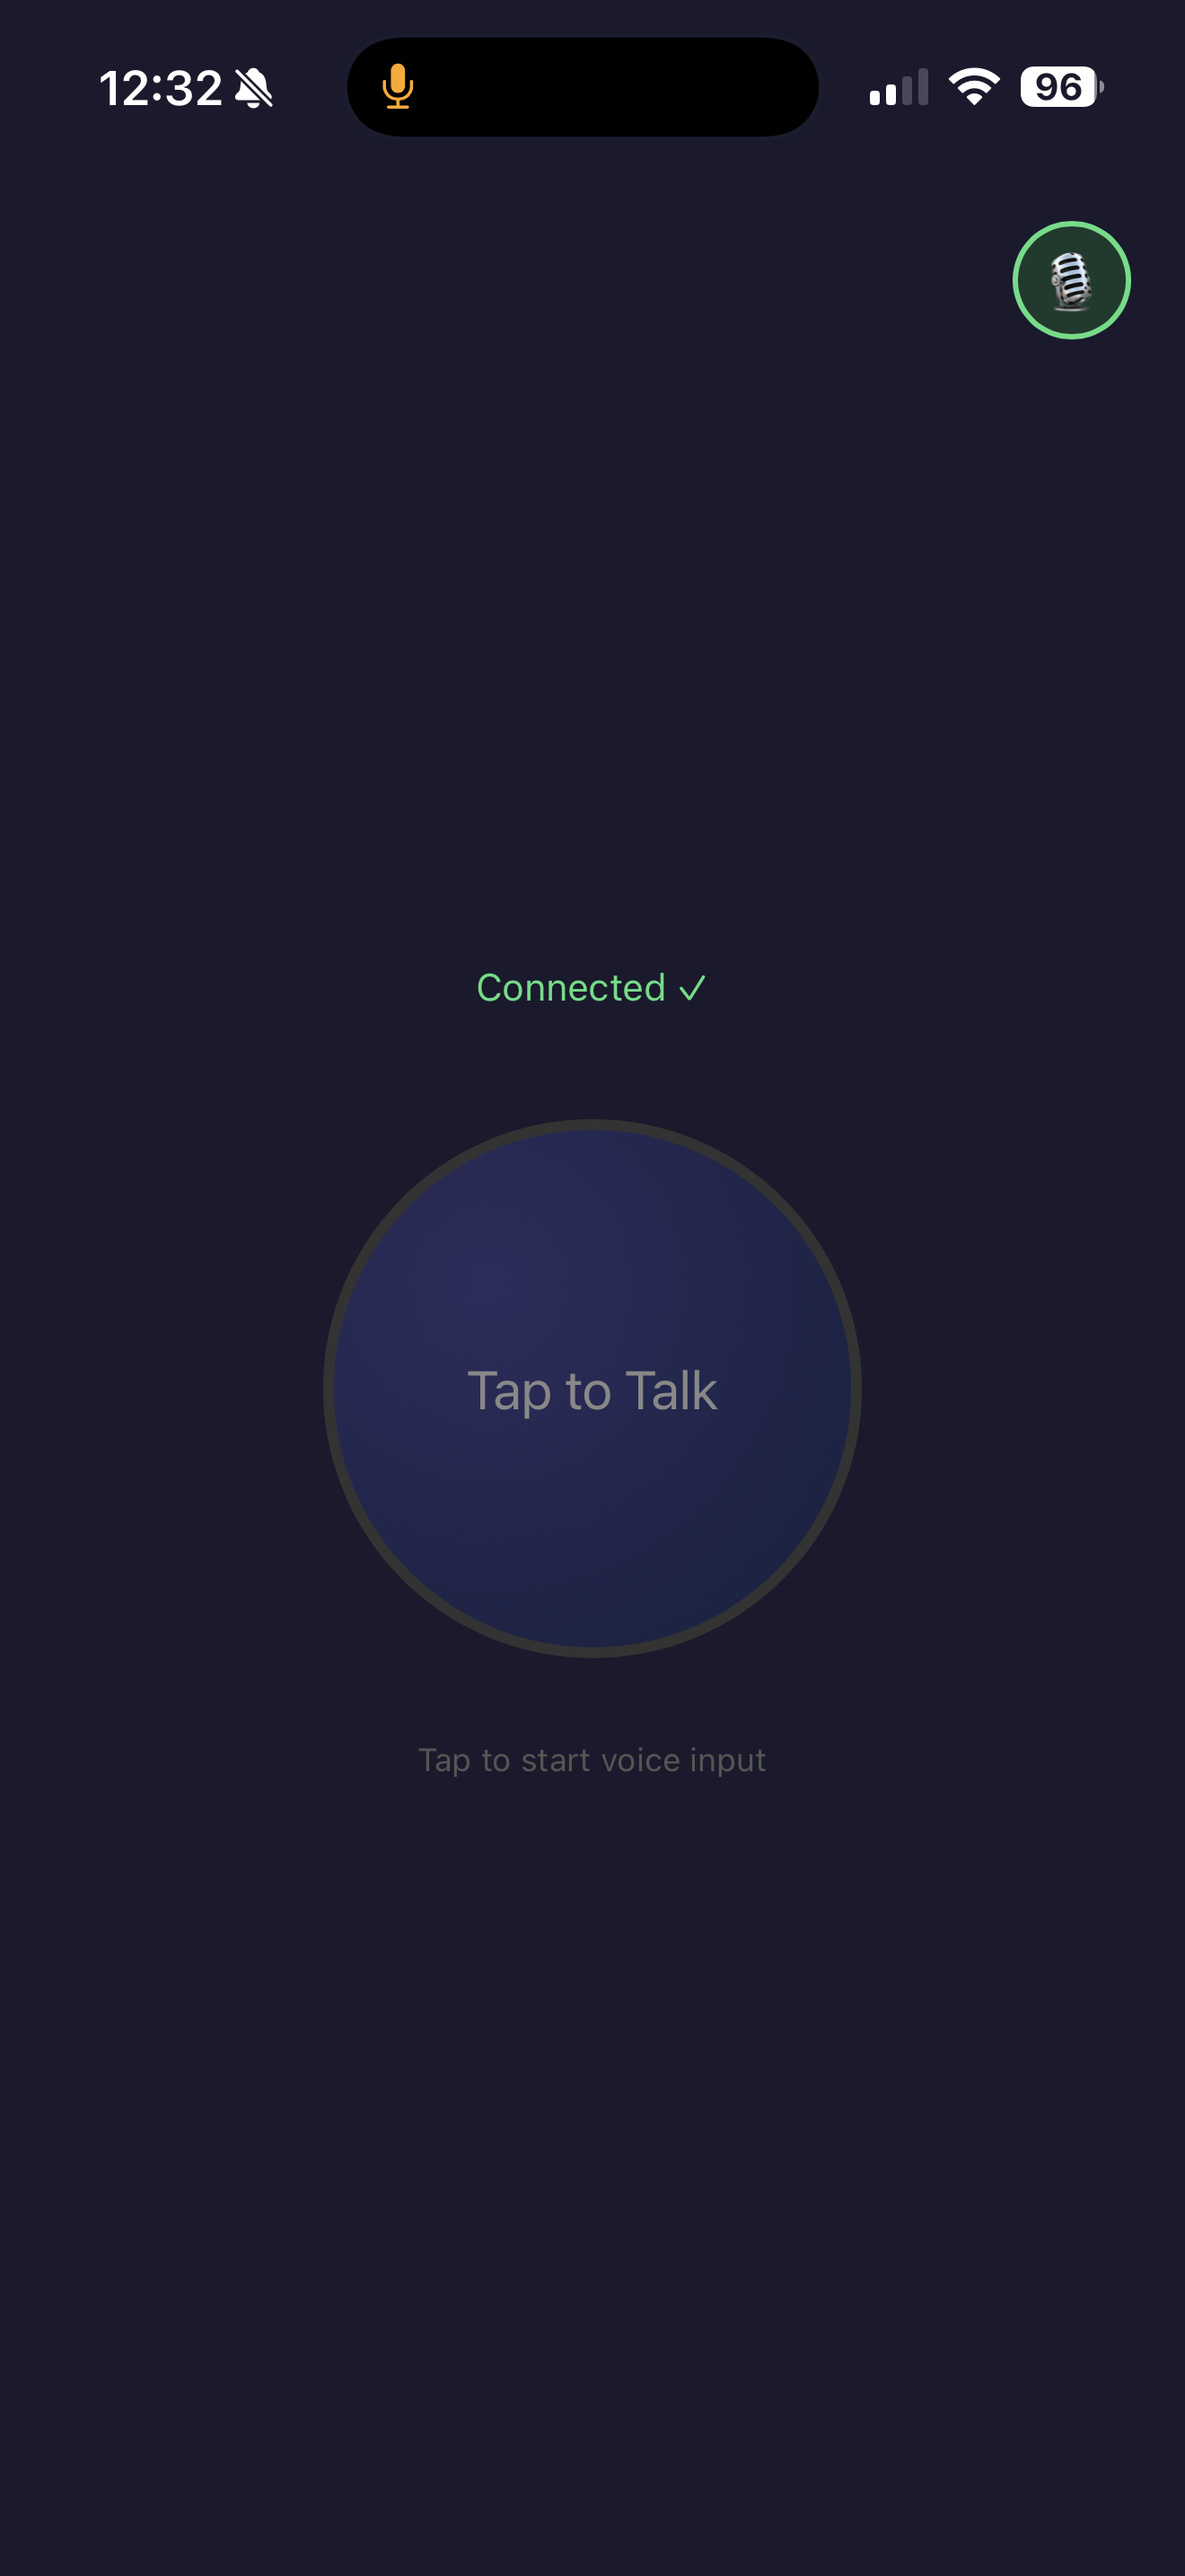
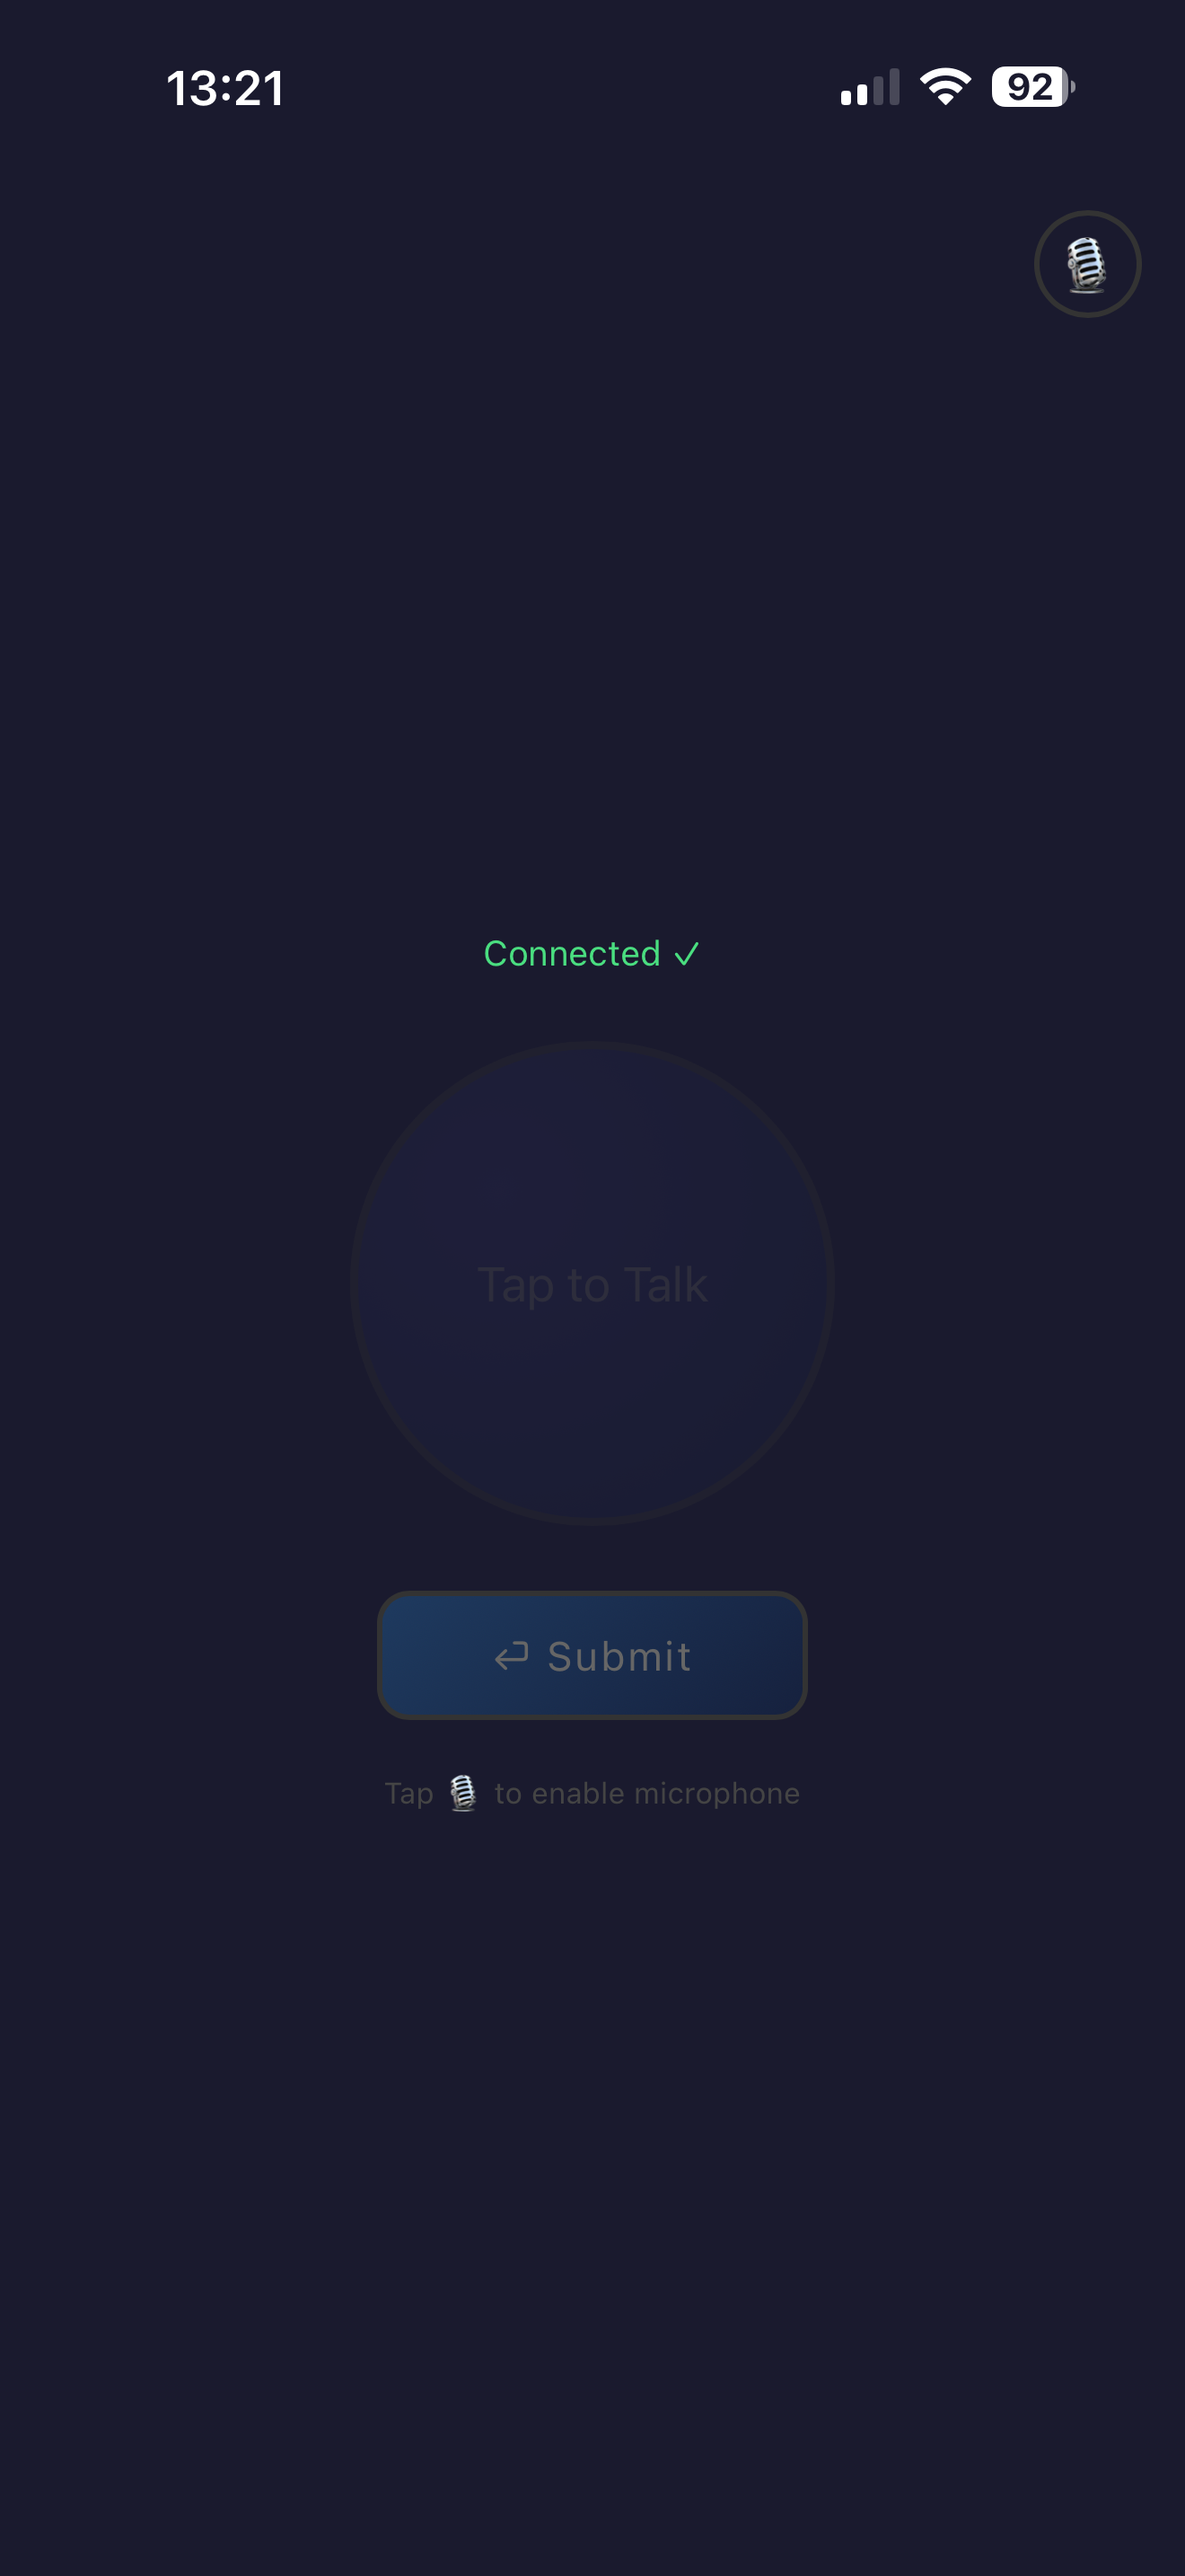
Add Submit (Enter) button, update screenshots, add hardware wiring diagram

diff --git a/public/index.html b/public/index.html
@@ -3,6 +3,8 @@
 <head>
 <meta charset="UTF-8">
 <meta name="viewport" content="width=device-width, initial-scale=1.0, user-scalable=no">
+<meta name="apple-mobile-web-app-capable" content="yes">
+<meta name="apple-mobile-web-app-status-bar-style" content="black-translucent">
 <title>Vibe Coding Magic Button</title>
 <style>
   * { margin:0; padding:0; box-sizing:border-box; }
@@ -11,32 +13,56 @@
     background: #1a1a2e; color: #eee;
     display: flex; flex-direction: column;
     align-items: center; justify-content: center;
-    height: 100vh; -webkit-user-select: none;
+    height: 100vh; overflow: hidden;
+    -webkit-user-select: none; user-select: none;
   }
-  #status { font-size:14px; color:#888; margin-bottom:40px; }
-  #status.ok { color:#4ade80; }
-  #status.err { color:#f87171; }
-  #btn {
-    width:200px; height:200px; border-radius:50%;
-    border:4px solid #333;
+  #status { font-size: 13px; color: #666; margin-bottom: 24px; }
+  #status.ok { color: #4ade80; }
+  #status.err { color: #f87171; }
+
+  .buttons { display: flex; flex-direction: column; align-items: center; gap: 24px; }
+
+  #talk-btn {
+    width: 180px; height: 180px; border-radius: 50%;
+    border: 3px solid #333;
     background: radial-gradient(circle at 30% 30%, #2d2d5e, #16213e);
-    display:flex; align-items:center; justify-content:center;
-    font-size:20px; color:#888; cursor:pointer;
-    transition: all 0.15s; touch-action:manipulation;
-  }
-  #btn.active {
-    background: radial-gradient(circle at 30% 30%, #dc2626, #991b1b);
-    border-color:#ef4444; color:#fff; transform:scale(0.95);
-    box-shadow: 0 0 40px rgba(239,68,68,0.4);
-  }
-  #btn.off { opacity:0.3; pointer-events:none; }
-  #hint { margin-top:30px; font-size:12px; color:#555; }
-  #mic-toggle {
-    position: fixed; top: 20px; right: 20px;
-    width: 44px; height: 44px; border-radius: 50%;
-    border: 2px solid #444; background: #222;
     display: flex; align-items: center; justify-content: center;
-    font-size: 20px; cursor: pointer;
+    font-size: 18px; color: #666; cursor: pointer;
+    transition: all 0.15s; touch-action: manipulation;
+  }
+  #talk-btn.active {
+    background: radial-gradient(circle at 30% 30%, #dc2626, #991b1b);
+    border-color: #ef4444; color: #fff;
+    transform: scale(0.96);
+    box-shadow: 0 0 30px rgba(239,68,68,0.35);
+  }
+  #talk-btn.off { opacity: 0.25; pointer-events: none; }
+
+  #enter-btn {
+    width: 160px; height: 48px; border-radius: 12px;
+    border: 2px solid #333;
+    background: linear-gradient(135deg, #1e3a5f, #16213e);
+    display: flex; align-items: center; justify-content: center;
+    font-size: 15px; color: #666; cursor: pointer;
+    transition: all 0.12s; touch-action: manipulation;
+    letter-spacing: 1px;
+  }
+  #enter-btn:active {
+    background: linear-gradient(135deg, #2563eb, #1d4ed8);
+    border-color: #3b82f6; color: #fff;
+    transform: scale(0.95);
+    box-shadow: 0 0 20px rgba(59,130,246,0.3);
+  }
+  #enter-btn.off { opacity: 0.25; pointer-events: none; }
+
+  #hint { margin-top: 20px; font-size: 11px; color: #444; text-align: center; }
+
+  #mic-toggle {
+    position: fixed; top: 16px; right: 16px;
+    width: 40px; height: 40px; border-radius: 50%;
+    border: 2px solid #333; background: #1a1a2e;
+    display: flex; align-items: center; justify-content: center;
+    font-size: 18px; cursor: pointer;
     transition: all 0.2s;
   }
   #mic-toggle.on { border-color: #4ade80; background: #1a3a2e; }
@@ -45,7 +71,10 @@
 <body>
 <div id="mic-toggle">🎙</div>
 <div id="status">Loading...</div>
-<div id="btn" class="off">Tap to Talk</div>
+<div class="buttons">
+  <div id="talk-btn" class="off">Tap to Talk</div>
+  <div id="enter-btn" class="off">⏎ Submit</div>
+</div>
 <div id="hint">Tap 🎙 to enable microphone</div>
 <script>
 const $ = id => document.getElementById(id);
@@ -61,7 +90,8 @@ async function checkServer() {
       connected = true;
       $('status').textContent = 'Connected ✓';
       $('status').className = 'ok';
-      if (micActive) $('btn').classList.remove('off');
+      $('enter-btn').classList.remove('off');
+      if (micActive) $('talk-btn').classList.remove('off');
       return;
     }
   } catch {}
@@ -83,11 +113,10 @@ async function activateMic() {
     };
     sourceNode.connect(processorNode);
     processorNode.connect(audioCtx.destination);
-
     micActive = true;
     $('mic-toggle').classList.add('on');
     $('hint').textContent = 'Microphone active';
-    if (connected) $('btn').classList.remove('off');
+    if (connected) $('talk-btn').classList.remove('off');
   } catch(e) {
     $('hint').textContent = 'Microphone permission denied';
   }
@@ -96,27 +125,23 @@ async function activateMic() {
 function deactivateMic() {
   if (recording) {
     recording = false;
-    $('btn').classList.remove('active');
-    $('btn').textContent = 'Tap to Talk';
+    $('talk-btn').classList.remove('active');
+    $('talk-btn').textContent = 'Tap to Talk';
     fetch('/key/stop', { method: 'POST' }).catch(() => {});
   }
   if (processorNode) { processorNode.disconnect(); processorNode = null; }
   if (sourceNode) { sourceNode.disconnect(); sourceNode = null; }
   if (audioCtx) { audioCtx.close(); audioCtx = null; }
   if (mic) { mic.getTracks().forEach(t => t.stop()); mic = null; }
-
   micActive = false;
   $('mic-toggle').classList.remove('on');
-  $('btn').classList.add('off');
+  $('talk-btn').classList.add('off');
   $('hint').textContent = 'Tap 🎙 to enable microphone';
 }
 
 $('mic-toggle').addEventListener('click', async () => {
-  if (micActive) {
-    deactivateMic();
-  } else {
-    await activateMic();
-  }
+  if (micActive) deactivateMic();
+  else await activateMic();
 });
 
 function sendPCM(float32Array) {
@@ -131,29 +156,40 @@ function sendPCM(float32Array) {
   );
 }
 
-$('btn').addEventListener('click', async () => {
+// Talk button
+$('talk-btn').addEventListener('click', async () => {
   if (!connected || !micActive) return;
   if (audioCtx && audioCtx.state === 'suspended') await audioCtx.resume();
 
   if (!recording) {
     recording = true;
-    $('btn').classList.add('active');
-    $('btn').textContent = '🎤 Listening...';
+    $('talk-btn').classList.add('active');
+    $('talk-btn').textContent = '🎤 Listening...';
     $('hint').textContent = 'Tap again to stop';
     await fetch('/key/start', { method: 'POST' });
   } else {
     recording = false;
-    $('btn').classList.remove('active');
-    $('btn').textContent = 'Tap to Talk';
+    $('talk-btn').classList.remove('active');
+    $('talk-btn').textContent = 'Tap to Talk';
     $('hint').textContent = 'Tap to start voice input';
     await sendQueue;
     await fetch('/key/stop', { method: 'POST' });
   }
 });
 
-(async () => {
-  await checkServer();
-})();
+// Enter/Submit button
+$('enter-btn').addEventListener('click', async () => {
+  if (!connected) return;
+  $('enter-btn').style.background = 'linear-gradient(135deg, #2563eb, #1d4ed8)';
+  $('enter-btn').style.color = '#fff';
+  await fetch('/key/enter', { method: 'POST' });
+  setTimeout(() => {
+    $('enter-btn').style.background = '';
+    $('enter-btn').style.color = '';
+  }, 200);
+});
+
+(async () => { await checkServer(); })();
 </script>
 </body>
 </html>

diff --git a/server.js b/server.js
@@ -83,6 +83,12 @@ server.on('request', (req, res) => {
     res.writeHead(200); res.end('ok');
     return;
   }
+  if (req.url === '/key/enter' && req.method === 'POST') {
+    console.log('[Key] ENTER');
+    if (vhidProcess && vhidProcess.stdin.writable) vhidProcess.stdin.write('enter\n');
+    res.writeHead(200); res.end('ok');
+    return;
+  }
   if (req.url === '/audio' && req.method === 'POST') {
     const chunks = [];
     req.on('data', chunk => chunks.push(chunk));

diff --git a/vhid_key.c b/vhid_key.c
@@ -104,9 +104,16 @@ int main(void) {
         if (strncmp(line, "tap", 3) == 0) {
             // Simulate a full key press: down then up
             send_report(MOD, KEY);
-            usleep(150000); // 150ms hold — enough for Typeless to detect
+            usleep(150000); // 150ms hold
             send_report(0, 0);
             fprintf(stderr, "[vhid_key] Key TAP (down+up)\n");
+            fflush(stderr);
+        } else if (strncmp(line, "enter", 5) == 0) {
+            // Enter/Return key: HID usage 0x28, no modifier
+            send_report(0, 0x28);
+            usleep(100000); // 100ms hold
+            send_report(0, 0);
+            fprintf(stderr, "[vhid_key] ENTER\n");
             fflush(stderr);
         }
     }

diff --git a/README.md b/README.md
@@ -13,6 +13,7 @@
 Open a webpage on your phone, tap a button, and:
 1. **A hardware-level keypress** is sent to your Mac (via Karabiner VirtualHID)
 2. **Your phone's microphone audio** streams to your Mac and plays through a USB audio device
+3. **A Submit (Enter) key** can be sent with a separate button — useful for confirming voice input
 
 This was built to remotely trigger [Typeless](https://typeless.so) (a voice-to-text app) from anywhere in the house — or even remotely via [Tailscale](https://tailscale.com). Typeless only accepts hardware HID keypresses and physical audio devices, so this project uses two tricks to satisfy those requirements.
 
@@ -38,6 +39,23 @@ The Mac-side C helper (`vhid_key`) communicates with Karabiner's VirtualHIDDevic
 
 ### The Audio Trick
 Some apps (like Typeless) reject virtual audio devices and only accept physical hardware microphones. To work around this, a cheap USB sound card with a 3.5mm loopback cable (output → input) creates a physical audio path. The phone's audio streams as raw PCM over HTTP, gets played to the USB card's output, travels through the cable, and re-enters as the card's microphone input — a legitimate hardware mic.
+
+**Hardware loopback wiring:**
+```
+USB Sound Card
+┌─────────────────────┐
+│                     │
+│  🔊 Output ──┐      │
+│              │      │     3.5mm male-to-male cable
+│              └──────────── connects output to input
+│              ┌──────────── (just one short cable!)
+│  🎤 Input  ──┘      │
+│                     │
+└─────────┬───────────┘
+          │ USB
+          ▼
+        Mac
+```
 
 **Note:** If your target app accepts virtual audio devices (like BlackHole), you don't need the USB sound card or loopback cable. Just change the audio output device in `server.js` to your virtual device name.
 
